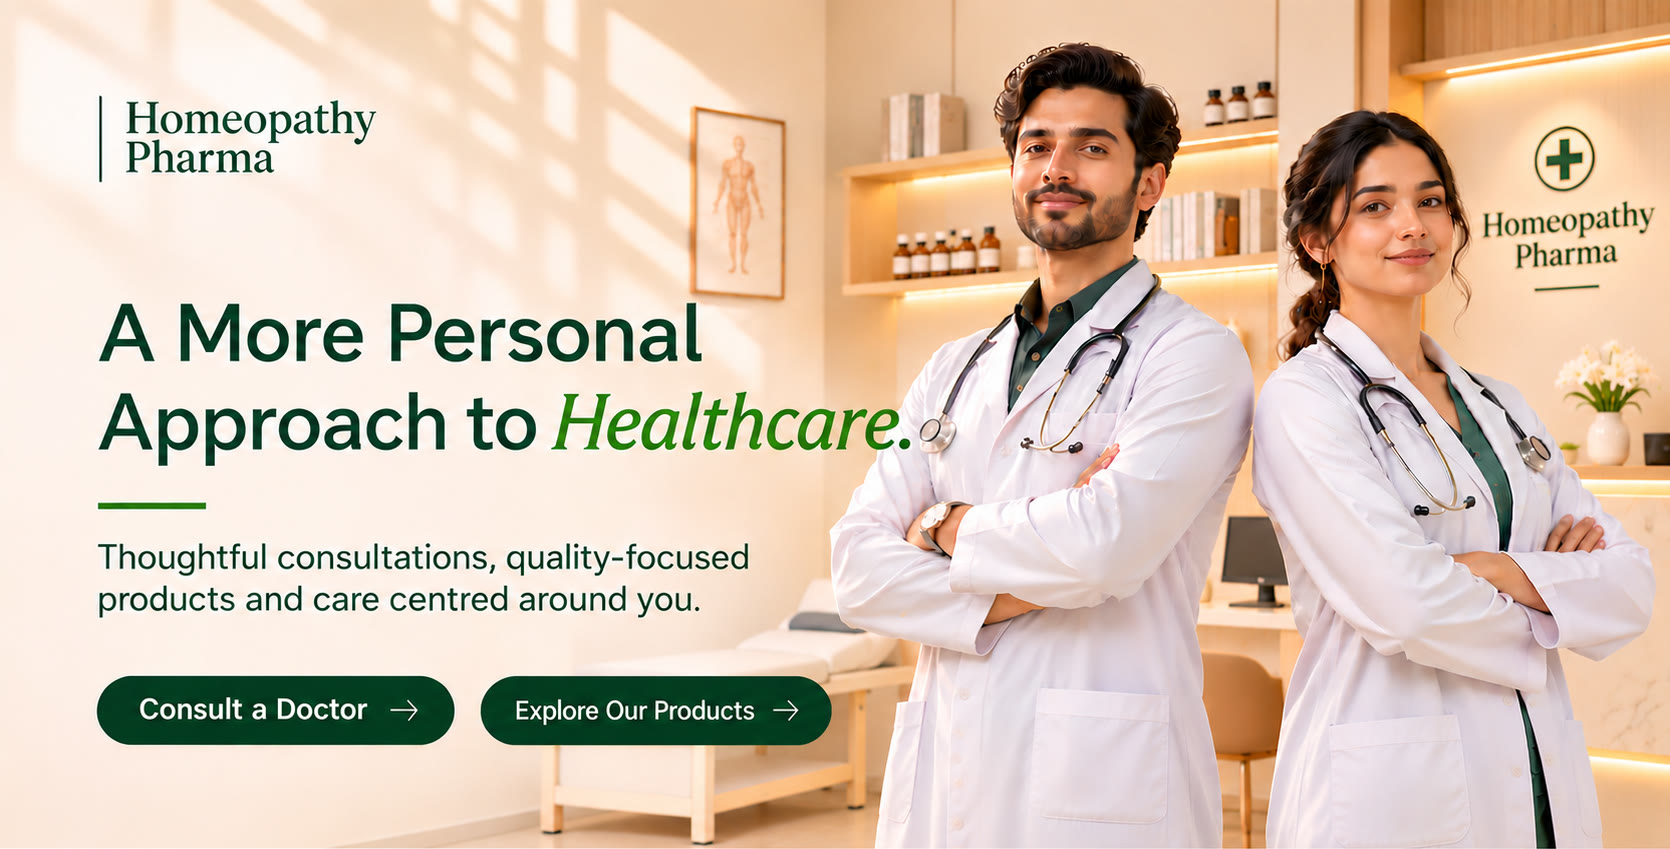
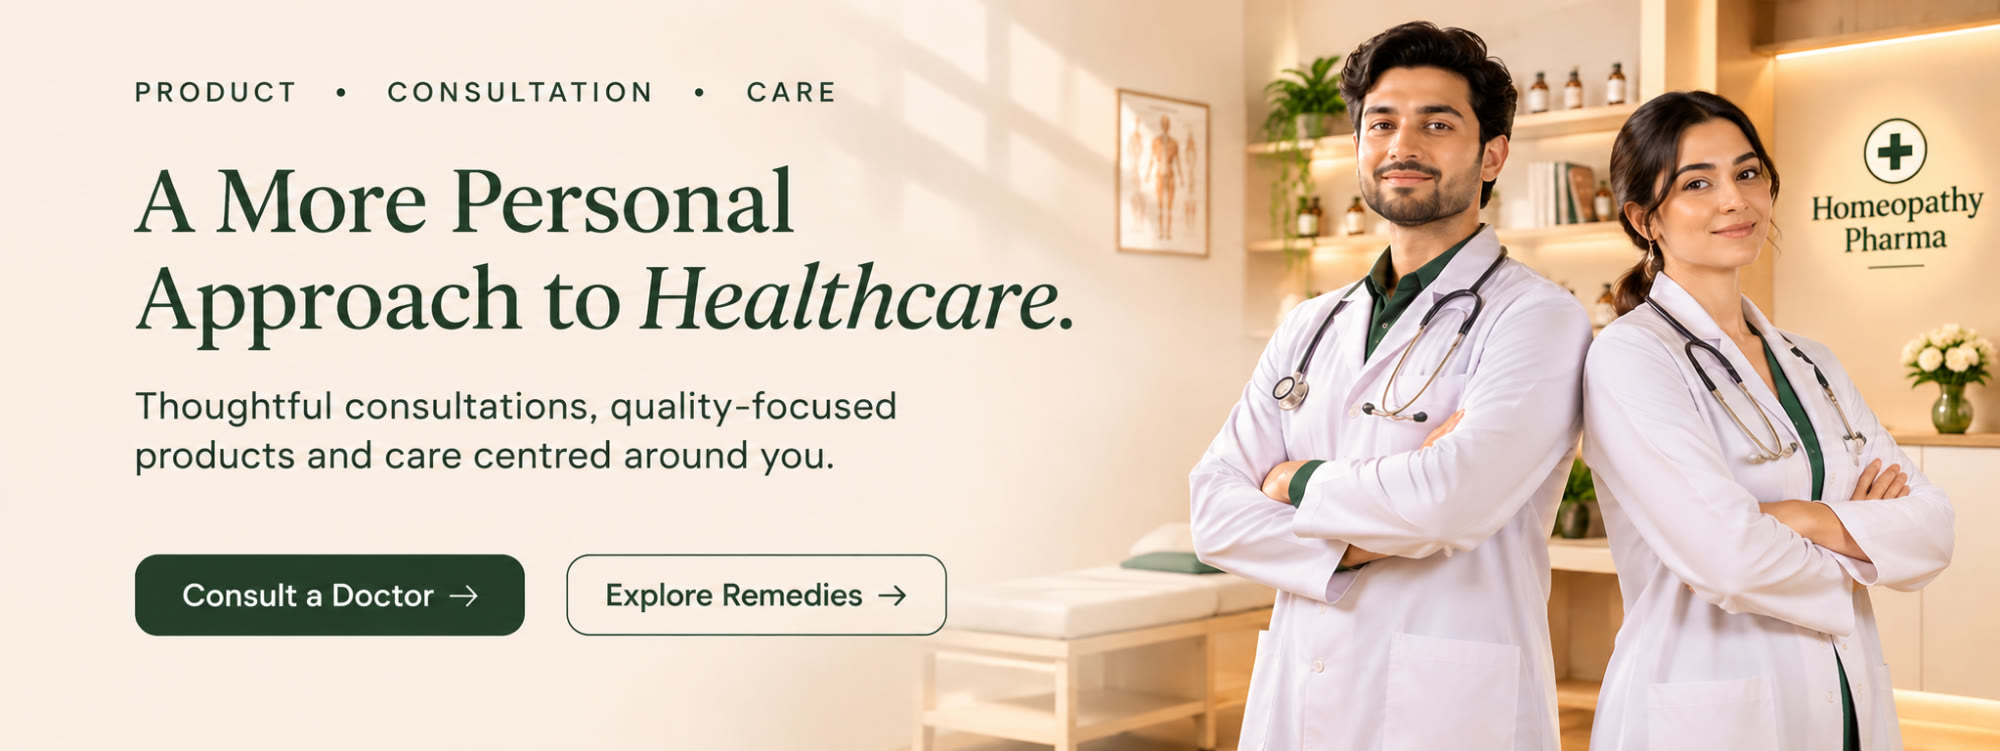
Update homepage hero to doctors v3 artwork
Swap in the new wider clinic banner under a CDN-safe filename, keep
the same-frame responsive ratio, and match Explore Remedies CTA copy.

diff --git a/homeopathypharma/public/css/storefront.css b/homeopathypharma/public/css/storefront.css
@@ -366,8 +366,8 @@ body {
   margin: 0;
   object-fit: unset;
   object-position: unset;
-  /* Keep intrinsic 1670×849 ratio so phone/tablet/desktop show the same frame */
-  aspect-ratio: 1670 / 849;
+  /* Keep intrinsic 2000×751 ratio so phone/tablet/desktop show the same frame */
+  aspect-ratio: 2000 / 751;
 }
 
 .hp-hero-banner__hit {

diff --git a/homeopathypharma/resources/views/home/index.blade.php b/homeopathypharma/resources/views/home/index.blade.php
@@ -14,10 +14,10 @@
     <section class="hp-hero-banner hp-hero-banner--art" aria-label="Homeopathy Pharma">
         <img
             class="hp-hero-banner__art"
-            src="{{ asset('images/home/hero-personal-doctors-v2.jpg') }}?v=20261104-doctors-v2"
+            src="{{ asset('images/home/hero-personal-doctors-v3.jpg') }}?v=20261104-doctors-v3"
             alt="Homeopathy Pharma — A More Personal Approach to Healthcare. Thoughtful consultations, quality-focused products and care centred around you."
-            width="1670"
-            height="849"
+            width="2000"
+            height="751"
             decoding="async"
             fetchpriority="high"
         >
@@ -29,7 +29,7 @@
         <a
             class="hp-hero-banner__hit hp-hero-banner__hit--shop"
             href="{{ $hero->payload['secondary_cta_href'] ?? route('shop.index') }}"
-        >{{ $hero->payload['secondary_cta_label'] ?? 'Explore Our Products' }}</a>
+        >{{ $hero->payload['secondary_cta_label'] ?? 'Explore Remedies' }}</a>
     </section>
 
     @if ($trust)

diff --git a/homeopathypharma/resources/views/layouts/app.blade.php b/homeopathypharma/resources/views/layouts/app.blade.php
@@ -12,8 +12,8 @@
     @php
         $hpCssApp = public_path('css/app.css');
         $hpCssStore = public_path('css/storefront.css');
-        $hpCssAppV = (is_file($hpCssApp) ? filemtime($hpCssApp) : time()).'-sameframe';
-        $hpCssStoreV = (is_file($hpCssStore) ? filemtime($hpCssStore) : time()).'-sameframe';
+        $hpCssAppV = (is_file($hpCssApp) ? filemtime($hpCssApp) : time()).'-doctors-v3';
+        $hpCssStoreV = (is_file($hpCssStore) ? filemtime($hpCssStore) : time()).'-doctors-v3';
     @endphp
     <link rel="stylesheet" href="{{ asset('css/app.css') }}?v={{ $hpCssAppV }}">
     <link rel="stylesheet" href="{{ asset('css/storefront.css') }}?v={{ $hpCssStoreV }}">
